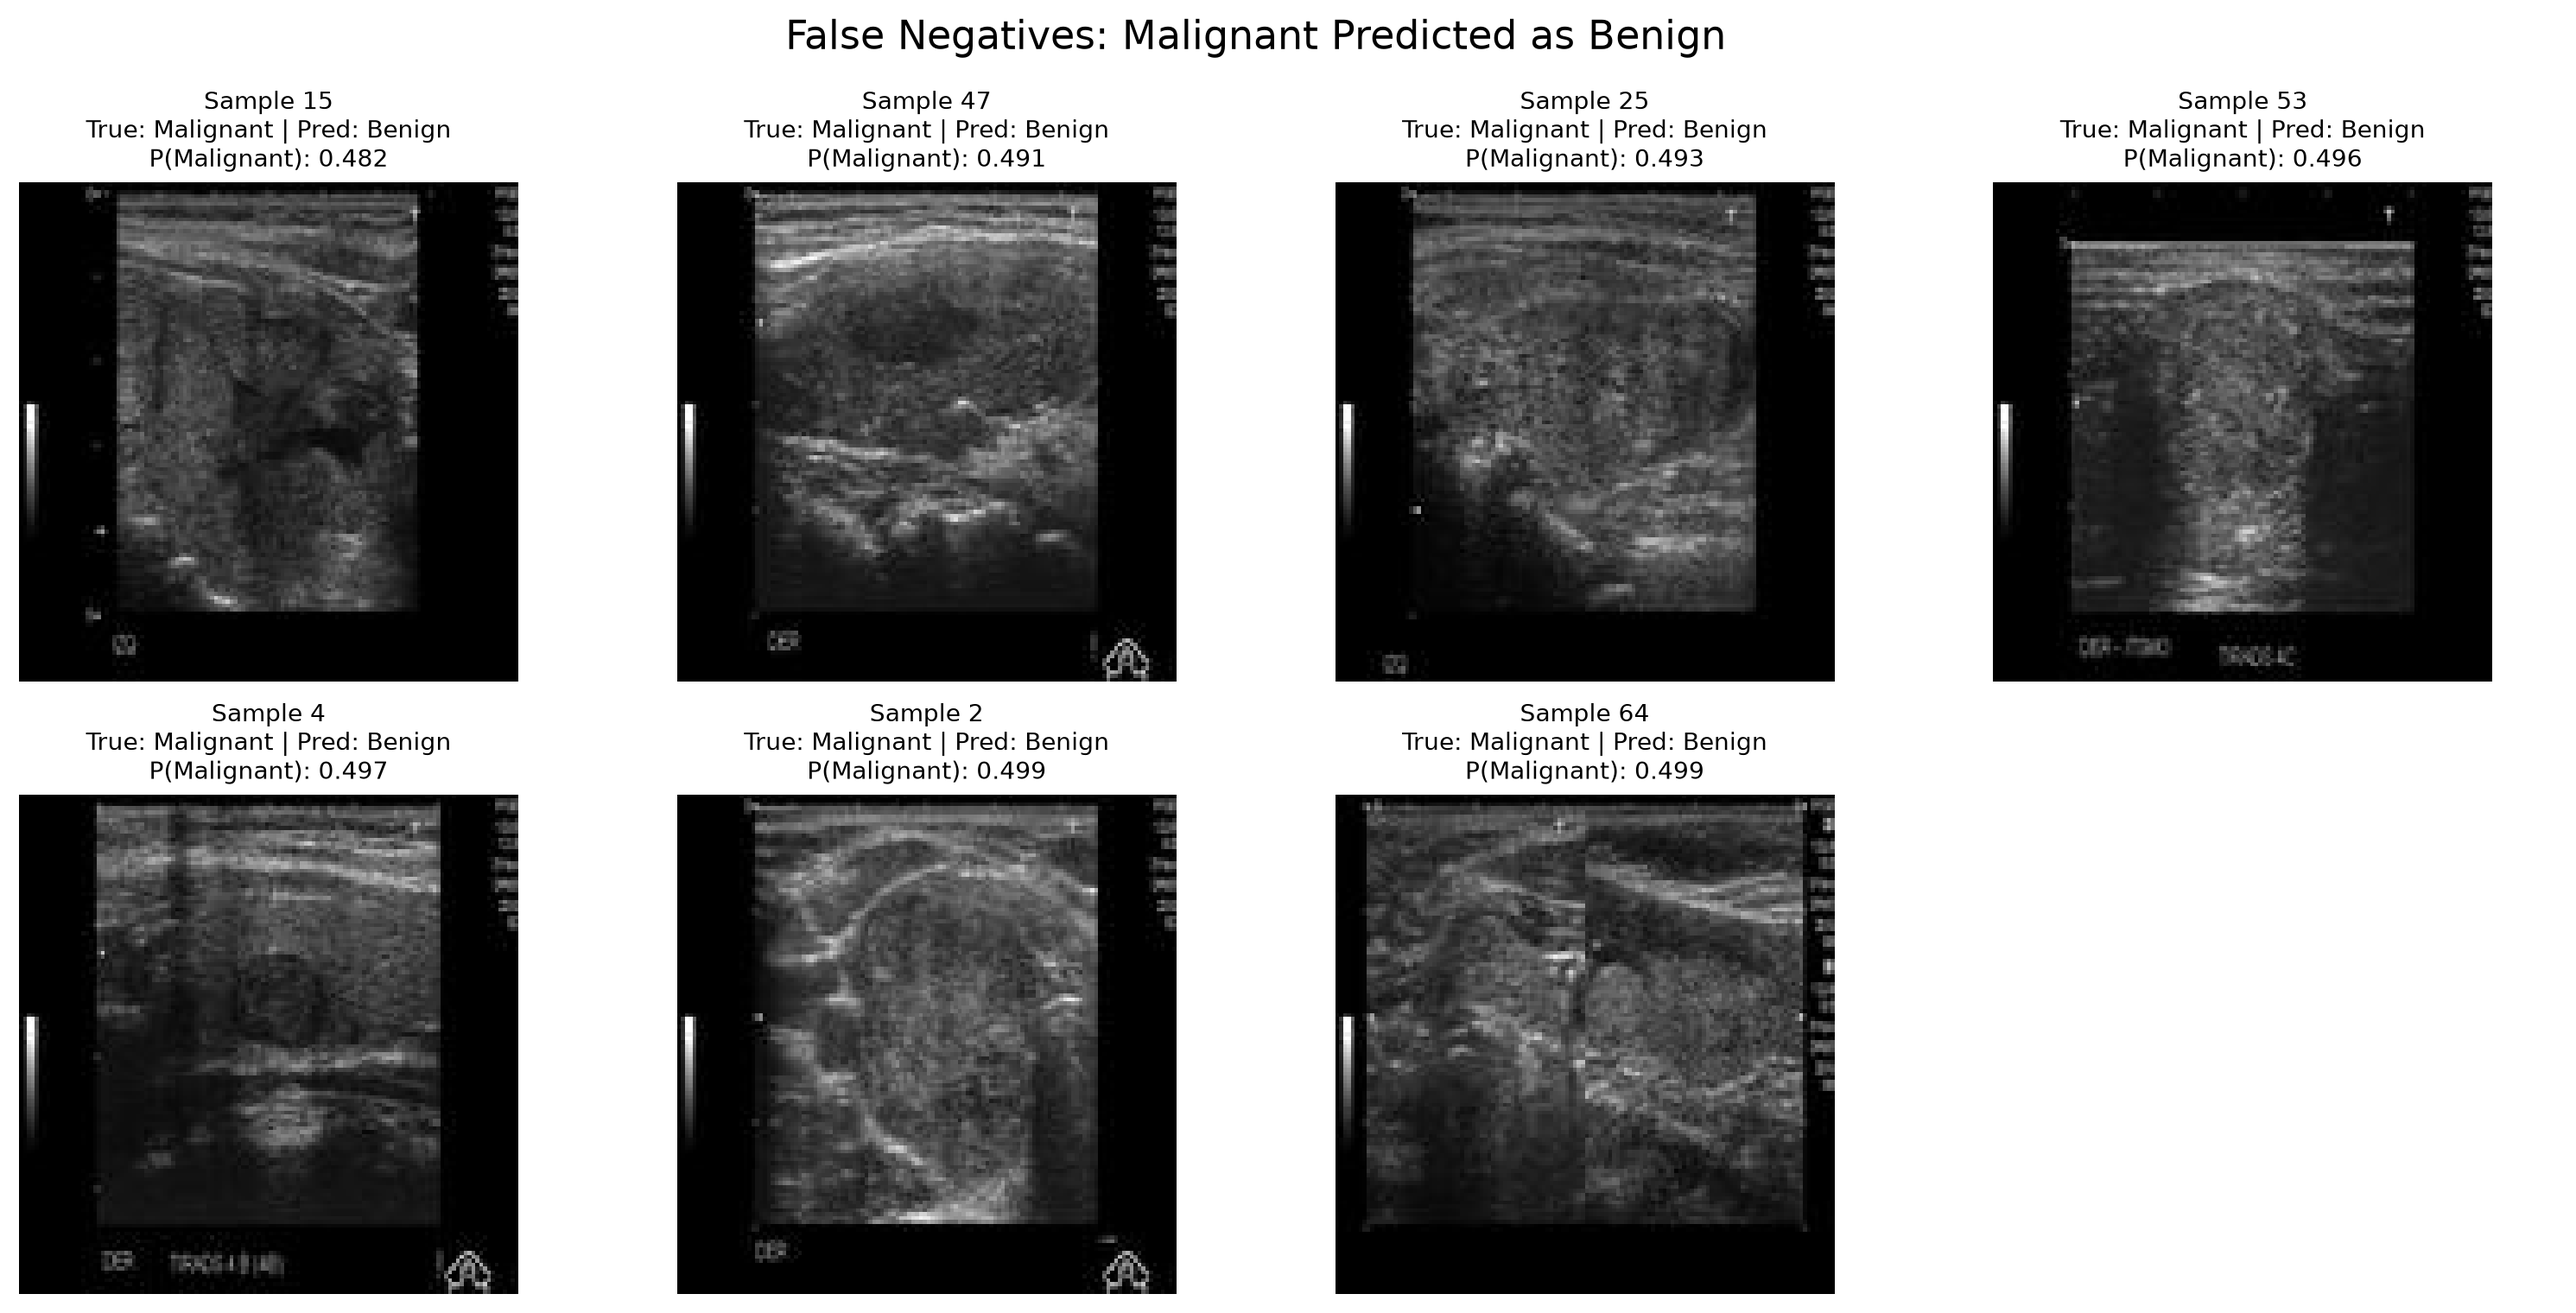
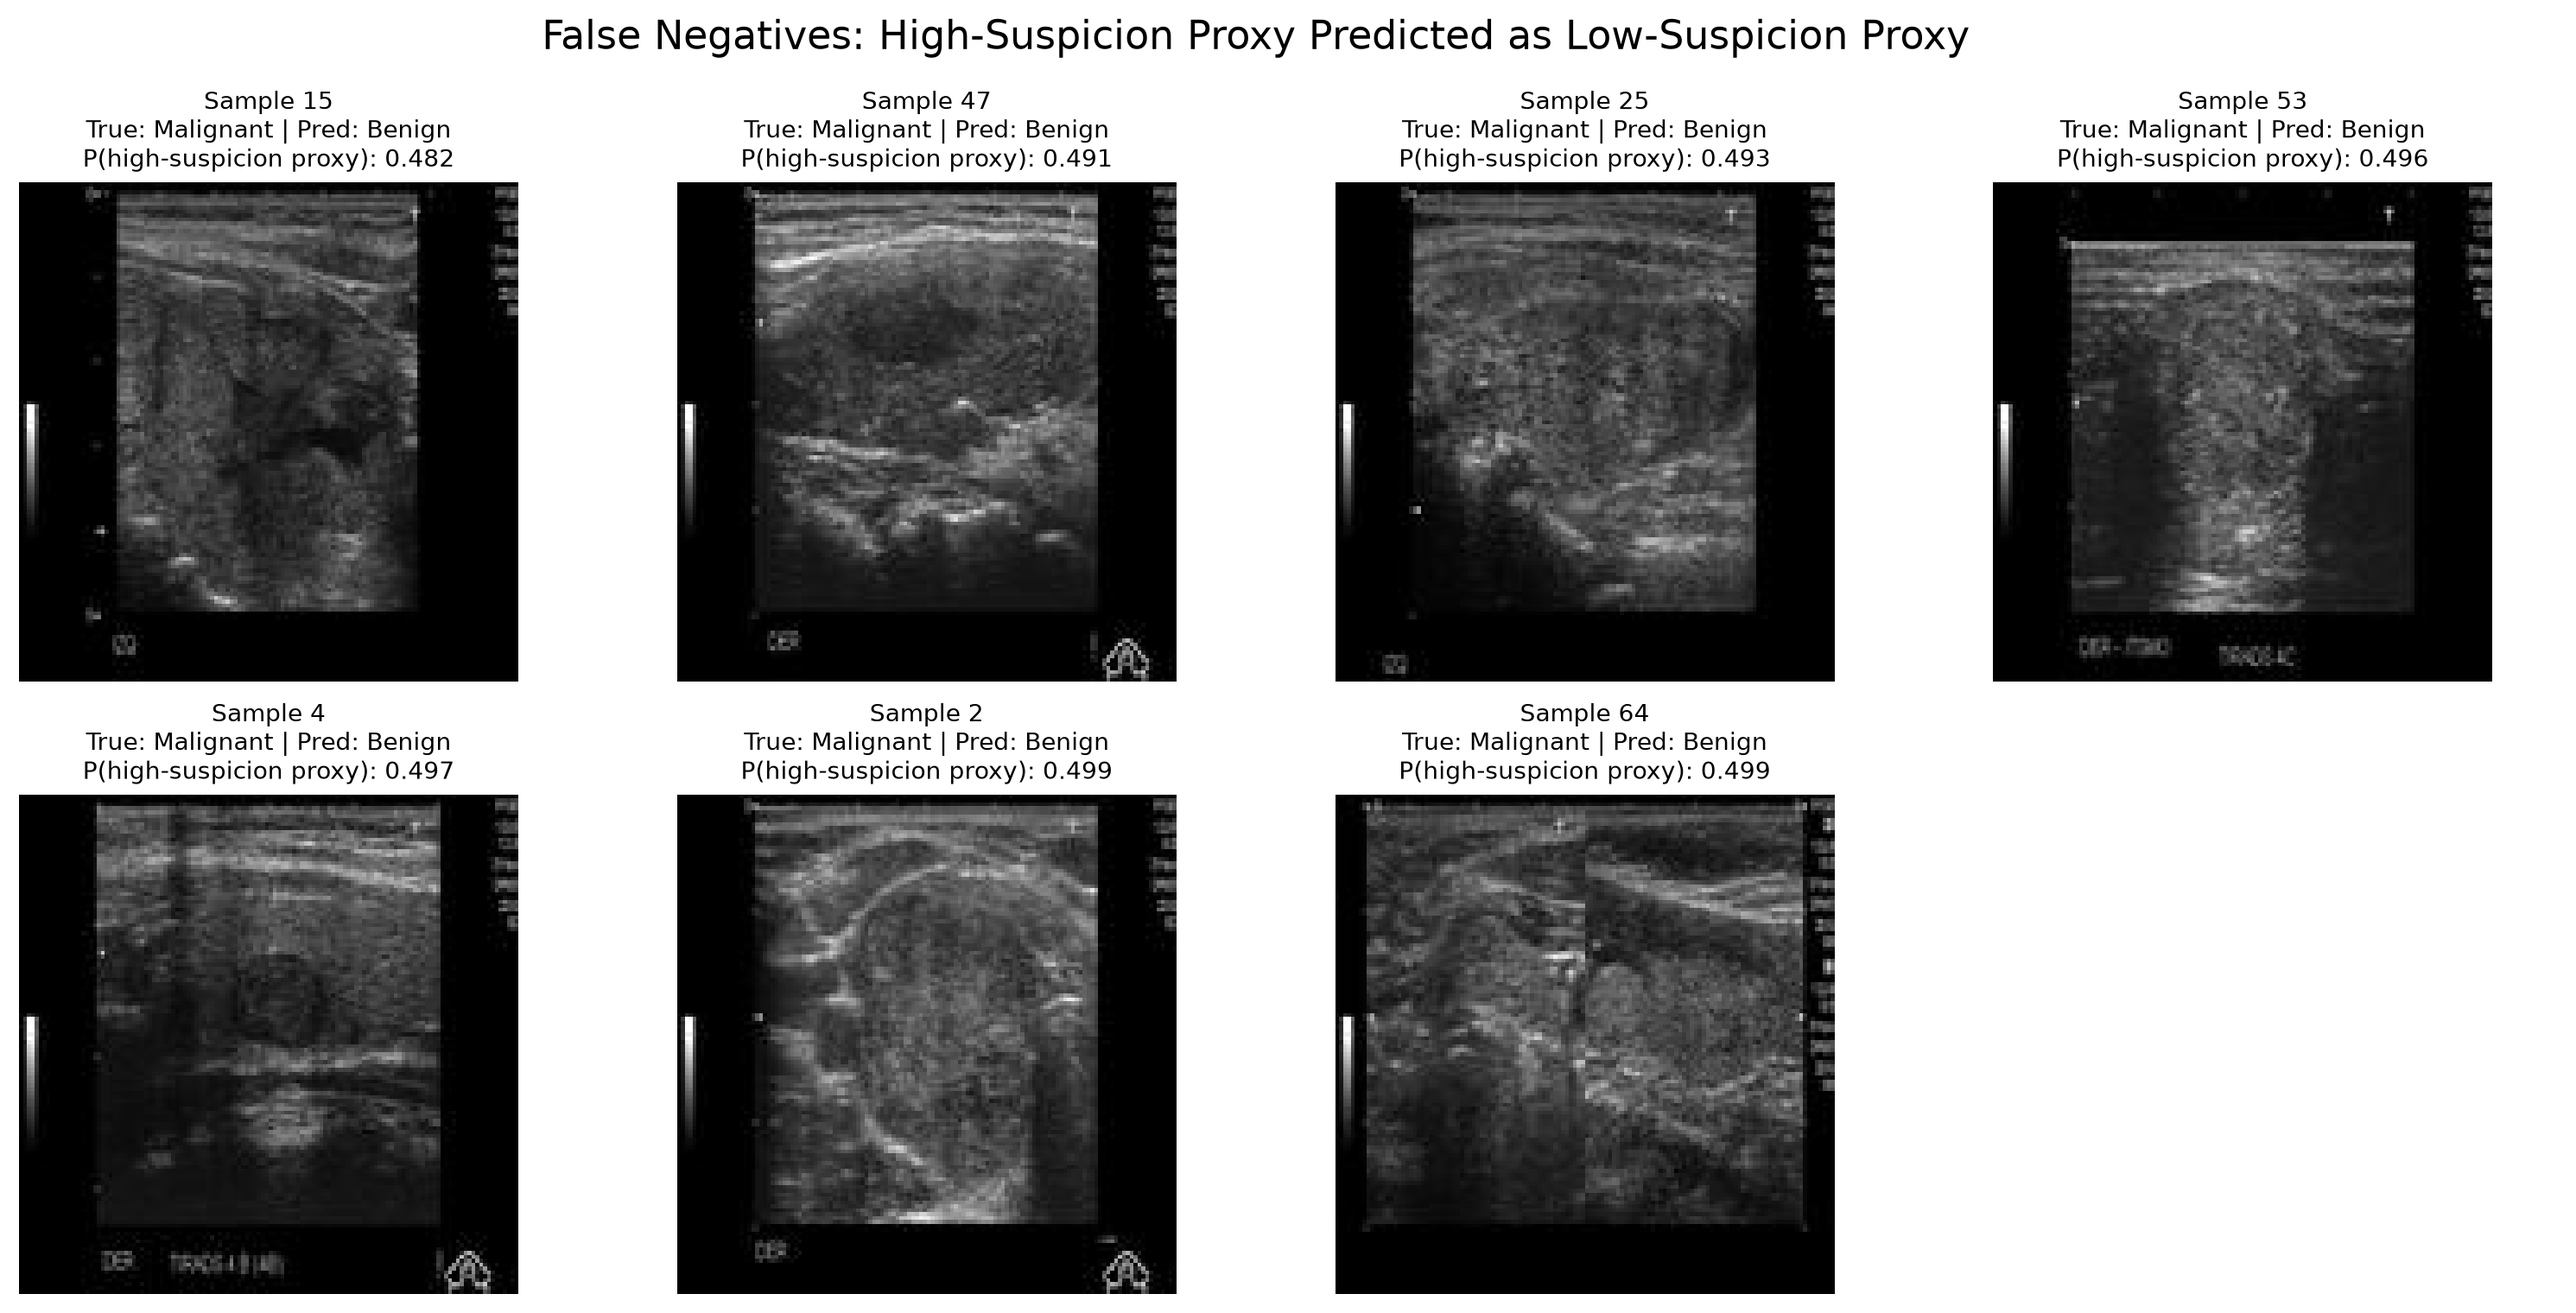
Clarify TI-RADS-derived proxy labels and remove unsupported clinical claims

diff --git a/05_Source_Code/phase15_verified_research_consolidation.py b/05_Source_Code/phase15_verified_research_consolidation.py
@@ -40,15 +40,15 @@ def read_binary_metrics(path: Path) -> dict:
 def build_verified_summary() -> pd.DataFrame:
     rows = []
 
-    # 1. Binary QuCNet tumor classifier
+    # 1. Binary QuCNet TI-RADS-derived proxy classifier
     binary = read_binary_metrics(RESULTS / "metrics.txt")
     rows.append({
-        "experiment": "QuCNet Tumor Classifier",
+        "experiment": "QuCNet Proxy-Label Classifier",
         "phase": "Binary baseline",
-        "task": "Benign vs Malignant",
+        "task": "TI-RADS-derived low- vs high-suspicion proxy",
         "evaluation_unit": "Image",
         "input": "64x64x4 quantum-inspired feature maps",
-        "split_protocol": "Train/test split used in original reproduction",
+        "split_protocol": "Historical validation-selected holdout protocol",
         "accuracy": binary["accuracy"],
         "balanced_accuracy": np.nan,
         "precision": binary["precision"],
@@ -56,8 +56,8 @@ def build_verified_summary() -> pd.DataFrame:
         "f1_score": binary["f1_score"],
         "status": "Completed binary experiment",
         "interpretation": (
-            "Best overall accuracy among completed experiments, with high "
-            "malignant recall but weak benign specificity."
+            "Best overall accuracy among completed experiments, with "
+            "high-suspicion-proxy recall but weak low-suspicion-proxy specificity."
         ),
     })
 
@@ -304,7 +304,7 @@ def write_research_interpretation(df: pd.DataFrame) -> None:
             "directly interchangeable."
         ),
         "",
-        "1. Binary QuCNet tumor classification",
+        "1. Binary QuCNet TI-RADS-derived proxy classification",
         "-" * 78,
         f"Accuracy               : {binary['accuracy_percent']:.2f}%",
         f"Precision              : {binary['precision_percent']:.2f}%",
@@ -312,8 +312,8 @@ def write_research_interpretation(df: pd.DataFrame) -> None:
         f"F1 score               : {binary['f1_score_percent']:.2f}%",
         (
             "Interpretation          : The binary experiment achieved the "
-            "highest accuracy and strong malignant recall, but produced many "
-            "false-positive malignant predictions."
+            "highest accuracy and strong high-suspicion-proxy recall, but produced many "
+            "false-positive high-suspicion-proxy predictions."
         ),
         "",
         "2. Six-class TI-RADS comparison",
@@ -353,7 +353,7 @@ def write_research_interpretation(df: pd.DataFrame) -> None:
         (
             "The reproduction does not support one universal project "
             "accuracy. It supports a task-specific set of results: 54.29% "
-            "for binary tumor classification, 18.57% versus 24.29% in the "
+            "for TI-RADS-derived binary proxy classification, 18.57% versus 24.29% in the "
             "matched quantum-versus-classical TI-RADS comparison, and "
             "12.50% ROI / 11.36% case accuracy for the strict leakage-free "
             "six-class baseline."

diff --git a/05_Source_Code/phase16_binary_qucnet_evaluation.py b/05_Source_Code/phase16_binary_qucnet_evaluation.py
@@ -37,7 +37,7 @@ Y_TEST_PATH = ROOT / "06_Models" / "y_test.npy"
 OUT = ROOT / "07_Results" / "phase16_binary_qucnet_evaluation"
 OUT.mkdir(parents=True, exist_ok=True)
 
-CLASS_NAMES = ["Benign", "Malignant"]
+CLASS_NAMES = ["Low-suspicion proxy", "High-suspicion proxy"]
 
 
 def require(path: Path) -> None:
@@ -53,7 +53,7 @@ def save_plot(path: Path) -> None:
 
 def main() -> None:
     print("=" * 78)
-    print("PHASE 16 : BINARY QUCNET FINAL EVALUATION")
+    print("PHASE 16 : BINARY QUCNET PROXY-LABEL RE-EVALUATION")
     print("=" * 78)
 
     for path in [MODEL_PATH, X_TEST_PATH, Y_TEST_PATH]:
@@ -259,17 +259,17 @@ def main() -> None:
 
     print("[6/6] Writing concise scientific summary...")
     lines = [
-        "PHASE 16 - BINARY QUCNET FINAL EVALUATION",
+        "PHASE 16 - BINARY QUCNET PROXY-LABEL RE-EVALUATION",
         "=" * 78,
         "",
         f"Test samples                         : {len(y_true)}",
-        f"Benign / Malignant                  : {np.sum(y_true == 0)} / {np.sum(y_true == 1)}",
+        f"Low- / high-suspicion proxy samples : {np.sum(y_true == 0)} / {np.sum(y_true == 1)}",
         f"Accuracy                            : {accuracy:.4f} ({accuracy * 100:.2f}%)",
-        f"Precision (Malignant)               : {precision:.4f} ({precision * 100:.2f}%)",
-        f"Sensitivity / Recall (Malignant)    : {sensitivity:.4f} ({sensitivity * 100:.2f}%)",
-        f"Specificity (Benign)                : {specificity:.4f} ({specificity * 100:.2f}%)",
+        f"Precision (high-suspicion proxy)     : {precision:.4f} ({precision * 100:.2f}%)",
+        f"Recall (high-suspicion proxy)        : {sensitivity:.4f} ({sensitivity * 100:.2f}%)",
+        f"Specificity (low-suspicion proxy)   : {specificity:.4f} ({specificity * 100:.2f}%)",
         f"Negative predictive value           : {npv:.4f} ({npv * 100:.2f}%)",
-        f"F1 score (Malignant)                : {f1:.4f} ({f1 * 100:.2f}%)",
+        f"F1 score (high-suspicion proxy)     : {f1:.4f} ({f1 * 100:.2f}%)",
         f"Matthews correlation coefficient    : {mcc:.4f}",
         f"Cohen kappa                         : {kappa:.4f}",
         f"ROC-AUC                             : {roc_auc:.4f}",
@@ -285,7 +285,7 @@ def main() -> None:
         "Interpretation",
         "-" * 78,
         (
-            "The model prioritizes malignant-case detection, producing high "
+            "The model prioritizes high-suspicion-proxy detection, producing high "
             "sensitivity but low specificity. The ROC-AUC and average precision "
             "must be reported together with the threshold-dependent confusion "
             "matrix metrics."

diff --git a/05_Source_Code/phase18_binary_error_analysis.py b/05_Source_Code/phase18_binary_error_analysis.py
@@ -77,7 +77,7 @@ def save_gallery(
                 f"Sample {sample_index}\n"
                 f"True: {row['true_label']} | "
                 f"Pred: {row['predicted_label']}\n"
-                f"P(Malignant): "
+                f"P(high-suspicion proxy): "
                 f"{float(row['probability_malignant']):.3f}"
             ),
             fontsize=9,
@@ -135,7 +135,7 @@ def save_combined_gallery(
                 f"Sample {sample_index}\n"
                 f"True: {row['true_label']} | "
                 f"Pred: {row['predicted_label']}\n"
-                f"P(Malignant): "
+                f"P(high-suspicion proxy): "
                 f"{float(row['probability_malignant']):.3f}"
             ),
             fontsize=8.5,
@@ -166,17 +166,17 @@ def save_error_summary(
         {
             "error_type": "False Positive",
             "count": int(len(false_positives)),
-            "meaning": "Benign image predicted as malignant",
+            "meaning": "TI-RADS-derived low-suspicion proxy image predicted as high-suspicion proxy",
             "clinical_effect": (
-                "May increase unnecessary follow-up or biopsy recommendations"
+                "No direct clinical consequence can be inferred because these are TI-RADS-derived proxy labels, not pathology-confirmed diagnoses."
             ),
         },
         {
             "error_type": "False Negative",
             "count": int(len(false_negatives)),
-            "meaning": "Malignant image predicted as benign",
+            "meaning": "TI-RADS-derived high-suspicion proxy image predicted as low-suspicion proxy",
             "clinical_effect": (
-                "May delay detection of a potentially malignant nodule"
+                "No direct clinical consequence can be inferred because these are TI-RADS-derived proxy labels, not pathology-confirmed diagnoses."
             ),
         },
     ]
@@ -238,14 +238,14 @@ def main() -> None:
         images=images,
         rows_df=false_positives,
         output_path=OUT / "false_positive_gallery.png",
-        title="False Positives: Benign Predicted as Malignant",
+        title="False Positives: Low-Suspicion Proxy Predicted as High-Suspicion Proxy",
     )
 
     save_gallery(
         images=images,
         rows_df=false_negatives,
         output_path=OUT / "false_negative_gallery.png",
-        title="False Negatives: Malignant Predicted as Benign",
+        title="False Negatives: High-Suspicion Proxy Predicted as Low-Suspicion Proxy",
     )
 
     save_combined_gallery(

diff --git a/05_Source_Code/phase17_paper_master_tables.py b/05_Source_Code/phase17_paper_master_tables.py
@@ -143,13 +143,13 @@ def create_experiment_configuration_table() -> pd.DataFrame:
 
     rows = [
         {
-            "Experiment": "Binary QuCNet",
-            "Task": "Benign vs Malignant",
+            "Experiment": "Binary QuCNet proxy-label experiment",
+            "Task": "TI-RADS-derived low- vs high-suspicion proxy",
             "Input": "64x64x4 quantum-inspired maps",
             "Balancing": "SMOTE",
             "Classes": 2,
             "Evaluation unit": "Image",
-            "Split protocol": "Original reproduction split",
+            "Split protocol": "Historical validation-selected holdout",
             "Model": "Flatten + Dense 128 + Dense 64 + Softmax",
         },
         {
